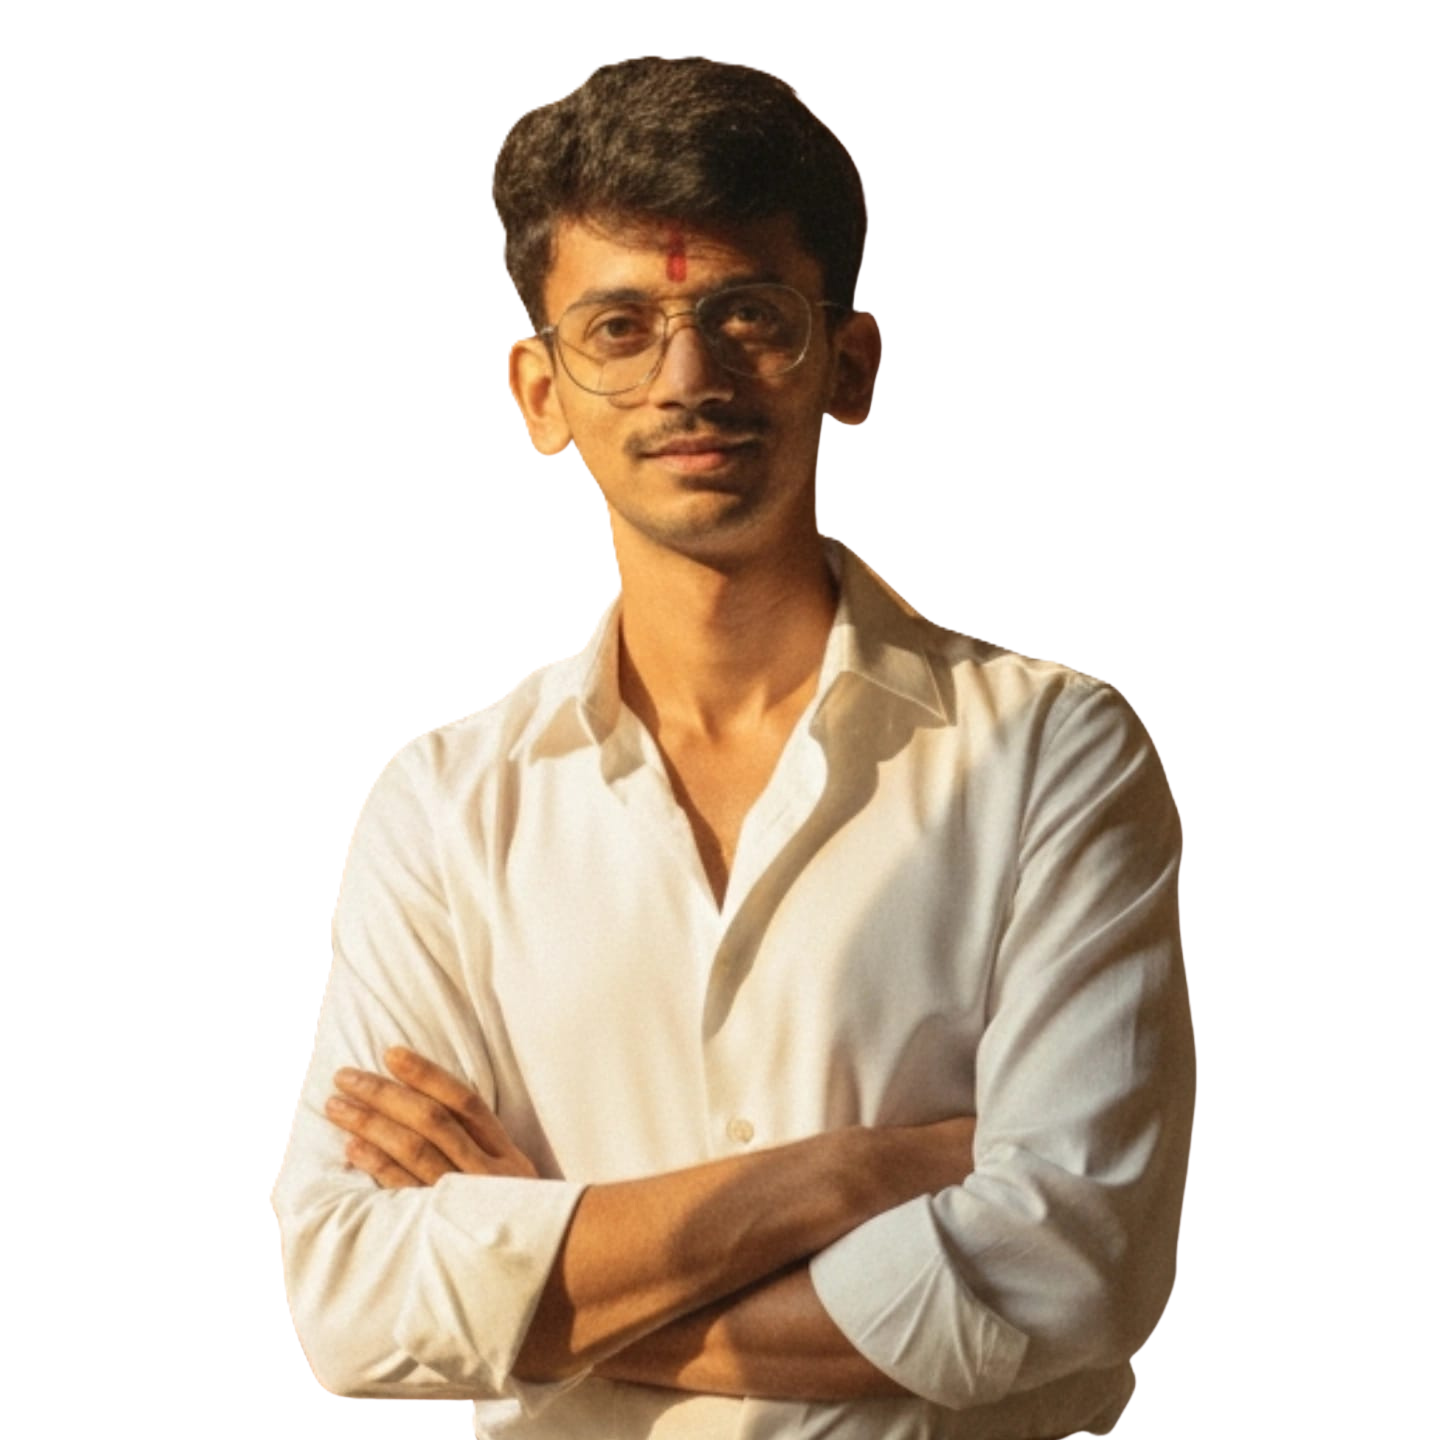
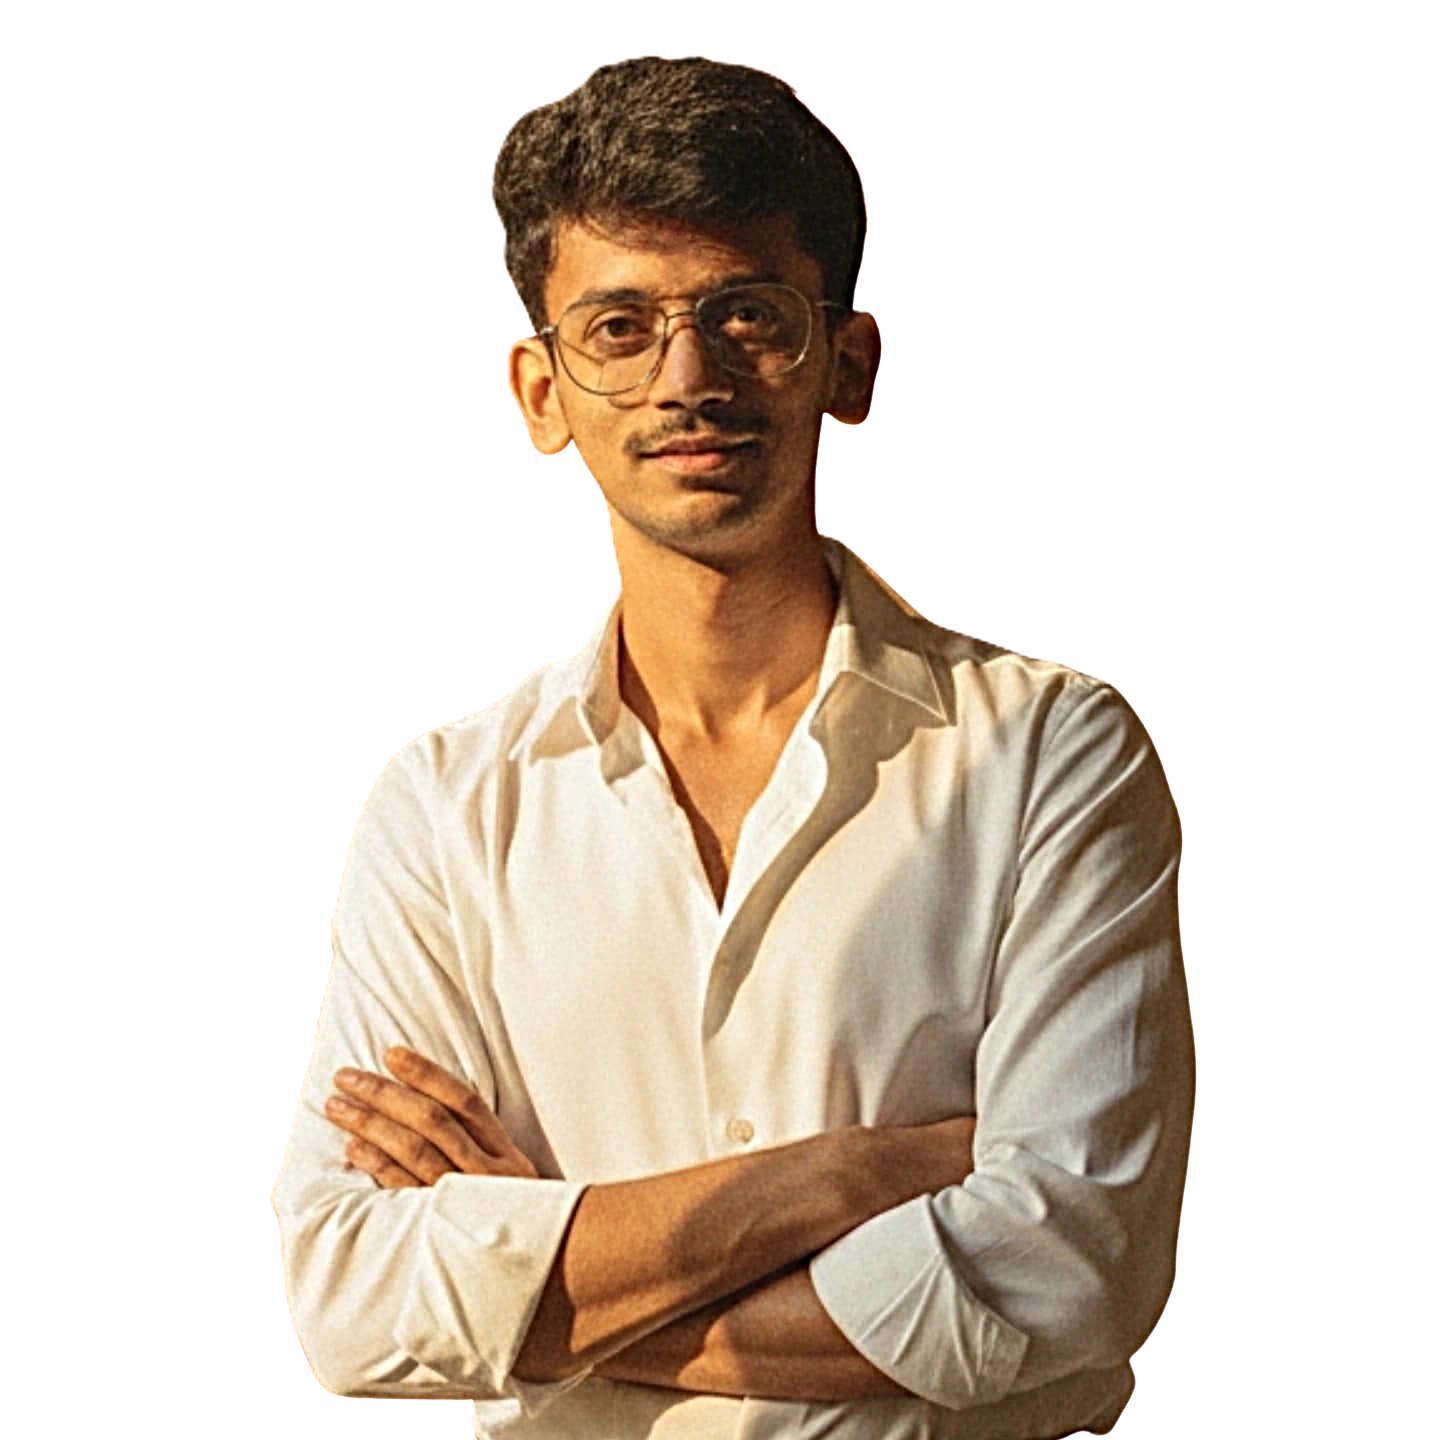
changes in bg

diff --git a/index.html b/index.html
@@ -7,15 +7,15 @@
     <link href="https://fonts.googleapis.com/css2?family=Playfair+Display:wght@400;600;700;900&family=Source+Sans+3:wght@300;400;600;700&family=JetBrains+Mono:wght@400;600&display=swap" rel="stylesheet">
     <style>
         :root {
-            --primary: #0ec40e;
+            --primary: #595f59;
             --accent: #6612b5;
             --accent-light: #F39C12;
             --github: #24292E;
             --github-accent: #0366D6;
             --linkedin: #0A66C2;
             --linkedin-dark: #004182;
-            --text: #34495E;
-            --text-light: #7F8C8D;
+            --text: #0d0d0e;
+            --text-light: #1d1e1f;
             --background: #e4e3e9;
             --card-bg: #f3eded;
             --border: #4490a2;
@@ -522,14 +522,14 @@
             color: rgba(255, 255, 255, 0.92);
             text-decoration: none;
             font-size: 0.85rem;
-            background: rgba(0, 0, 0, 0.14);
+            background: rgba(3, 243, 203, 0.14);
             white-space: nowrap;
             transition: all 0.3s ease;
         }
 
         .project-link:hover {
             border-color: rgba(255, 255, 255, 0.38);
-            background: rgba(0, 0, 0, 0.25);
+            background: rgba(247, 243, 243, 0.767);
             transform: translateY(-2px);
         }
 
@@ -736,14 +736,14 @@
             width: 32px;
             height: 32px;
             background: var(--accent);
-            color: white;
+            color: rgb(248, 244, 244);
             border-radius: 50%;
             display: flex;
             align-items: center;
             justify-content: center;
             font-weight: 700;
             font-size: 0.875rem;
-            box-shadow: 0 4px 10px rgba(231, 76, 60, 0.3);
+            box-shadow: 0 4px 10px rgba(46, 2, 204, 0.3);
         }
         
         .timeline-title {
@@ -830,7 +830,7 @@
         
         /* DevOps Skills */
         .devops-skills {
-            background: linear-gradient(135deg, #f5f7fa 0%, #c3cfe2 100%);
+            background: linear-gradient(135deg, #050505 0%, #faf9fa 100%);
             padding: 5rem 2rem;
         }
         
@@ -843,10 +843,10 @@
         }
         
         .devops-card {
-            background: white;
+            background: rgb(243, 242, 241);
             padding: 2.5rem;
             border-radius: 12px;
-            box-shadow: 0 10px 30px rgba(0, 0, 0, 0.08);
+            box-shadow: 0 10px 30px rgba(12, 11, 11, 0.08);
             text-align: center;
             transition: all 0.3s ease;
             border-top: 4px solid var(--github-accent);
@@ -893,7 +893,7 @@
         }
         
         .tech-tag:hover {
-            background: rgba(3, 102, 214, 0.2);
+            background: rgba(6, 118, 247, 0.2);
             transform: translateY(-2px);
             box-shadow: 0 4px 12px rgba(3, 102, 214, 0.2);
         }
@@ -907,7 +907,7 @@
         }
 
         .devops-panel {
-            background: white;
+            background: rgb(212, 214, 216);
             padding: 2.5rem;
             border-radius: 12px;
             box-shadow: 0 10px 30px rgba(0, 0, 0, 0.08);
@@ -1020,8 +1020,8 @@
         
         /* Contact Section */
         .contact-section {
-            background: linear-gradient(135deg, #2C3E50 0%, #34495E 100%);
-            color: white;
+            background: linear-gradient(135deg, #07a536 0%, #0a0a0a 100%);
+            color: rgb(248, 244, 244);
             padding: 5rem 2rem;
             text-align: center;
         }
@@ -1032,7 +1032,7 @@
         }
         
         .contact-section h2 {
-            color: white;
+            color: rgb(20, 19, 19);
             font-size: 3rem;
             margin-bottom: 1rem;
         }
@@ -1051,7 +1051,7 @@
         }
         
         .contact-item {
-            background: rgba(255, 255, 255, 0.1);
+            background: rgba(52, 240, 68, 0.1);
             padding: 1.5rem;
             border-radius: 12px;
             backdrop-filter: blur(10px);
@@ -1069,7 +1069,7 @@
         }
         
         .contact-item a {
-            color: white;
+            color: rgb(252, 248, 248);
             text-decoration: none;
             transition: color 0.3s ease;
         }
@@ -1080,7 +1080,7 @@
         
         /* Footer */
         footer {
-            background: #1A252F;
+            background: #0a0a0a;
             color: rgba(255, 255, 255, 0.7);
             padding: 3rem 2rem;
             text-align: center;
@@ -1121,7 +1121,7 @@
         }
         
         .footer-section h4 {
-            color: white;
+            color: rgb(250, 249, 249);
             font-size: 1rem;
             margin-bottom: 0.75rem;
             text-transform: uppercase;
@@ -1142,7 +1142,7 @@
         .footer-bottom {
             text-align: center;
             padding-top: 2rem;
-            border-top: 1px solid rgba(255, 255, 255, 0.1);
+            border-top: 1px solid rgba(243, 237, 237, 0.1);
         }
         
         /* Responsive Design */
@@ -1193,6 +1193,21 @@
             .linkedin-wrap { grid-template-columns: 1fr; }
             .linkedin-facts li { grid-template-columns: 1fr; }
             .footer-content { grid-template-columns: 1fr; }
+            /* Improve timeline readability on small screens */
+            .timeline {
+                display: grid;
+                gap: 1.25rem;
+            }
+            .timeline-item {
+                background: rgba(255,255,255,0.03);
+                padding: 1.25rem;
+                border-radius: 12px;
+                border: 1px solid rgba(255,255,255,0.04);
+            }
+            .timeline-bullets li {
+                line-height: 1.6;
+                margin-bottom: 0.6rem;
+            }
         }
     </style>
 </head>
@@ -1282,6 +1297,11 @@
             <h2 class="section-title">Professional Summary</h2>
         </div>
         <div class="summary-card">
+            <p>
+                DevOps Engineer with experience in DevOps architecture, AWS administration, and Infrastructure as Code (IaC), building scalable cloud infrastructure and production-grade CI/CD systems on AWS.
+                Proven track record of designing secure, repeatable AWS environments with Terraform, containerizing and orchestrating microservices with Docker and Kubernetes, and automating deployment pipelines to reduce lead time and manual error.
+                Strong focus on observability, system reliability, and applying DevOps/SRE best practices across the software delivery lifecycle.
+            </p>
             <p>
                 Aspiring AWS DevOps Engineer with hands-on knowledge of cloud infrastructure, automation, and CI/CD practices.
                 Familiar with key services of Amazon Web Services including Amazon EC2, Amazon S3, and AWS Identity and Access Management for building and managing scalable cloud environments.
@@ -1381,89 +1401,33 @@
         <div class="timeline">
             <div class="timeline-item">
                 <div class="timeline-number">1</div>
-                <h3 class="timeline-title">Vected Technology Pvt. Ltd., Indore</h3>
-                <p class="timeline-meta">March 2025 - Present</p>
-                <p class="timeline-location">AWS DevOps Engineer</p>
+                <h3 class="timeline-title">DevOps Engineer  |  Vected Technologies Pvt. Ltd.</h3>
+                <p class="timeline-meta">March 2025 – Present · Indore, India</p>
                 <ul class="timeline-bullets">
-                    <li>Automated build and deployment workflows using Jenkins and GitHub Actions to reduce manual release effort.</li>
-                    <li>Provisioned and updated AWS infrastructure with Terraform (VPC, IAM, EC2/S3) using reusable modules.</li>
-                    <li>Containerized services with Docker and supported Kubernetes deployments with repeatable manifests.</li>
-                    <li>Implemented basic monitoring and alerting with CloudWatch logs/metrics to improve operational visibility.</li>
-                    <li>Hardened access patterns with least-privilege IAM policies and secure secret handling for pipelines.</li>
+                    <li>Administered and provisioned AWS infrastructure (EC2, S3, IAM, VPC) using version-controlled Terraform modules, applying Infrastructure as Code principles to enable repeatable, auditable, and secure deployments.</li>
+                    <li>Designed and optimized CI/CD pipelines using GitHub Actions as part of the broader DevOps architecture, reducing deployment lead time by 30% and enabling faster, safer release cycles.</li>
+                    <li>Containerized microservices with Docker and orchestrated deployments on Kubernetes, ensuring 100% environment consistency across development and staging environments.</li>
+                    <li>Enforced infrastructure security through IAM least-privilege policies, VPC network segmentation, and firewall configuration to protect cloud environments against security threats.</li>
+                    <li>Automated infrastructure provisioning and deployment tasks via Bash and Python scripting, eliminating manual steps and reducing human error across the delivery pipeline.</li>
+                    <li>Configured AWS CloudWatch dashboards, alarms, and log-based alerting for proactive system monitoring, performance troubleshooting, and incident response.</li>
+                </ul>
+            </div>
+
+            <div class="timeline-item">
+                <div class="timeline-number">2</div>
+                <h3 class="timeline-title">DevOps Intern  |  Vected Technologies Pvt. Ltd.</h3>
+                <p class="timeline-meta">November 2024 – February 2025 · Indore, India</p>
+                <ul class="timeline-bullets">
+                    <li>Supported automation of deployment pipelines and management of cloud infrastructure, gaining hands-on experience with CI/CD tooling, Docker, Kubernetes, and AWS administration.</li>
+                    <li>Contributed to Infrastructure as Code initiatives using Terraform and assisted in monitoring and system reliability efforts.</li>
                 </ul>
             </div>
         </div>
     </section>
 
     <section class="devops-skills" id="devops">
-        <div class="section-header">
-            <h2 class="section-title">DevOps & Cloud Expertise</h2>
-            <p class="section-subtitle">Modern tools and technologies for cloud infrastructure automation</p>
-        </div>
         <div class="devops-grid">
             <div class="devops-card">
-                <div class="devops-icon">☁</div>
-                <h3>Cloud Platforms</h3>
-                <p>Expert in AWS services and cloud architecture design for scalable solutions.</p>
-                <div class="tech-tags">
-                    <span class="tech-tag">AWS</span>
-                    <span class="tech-tag">EC2</span>
-                    <span class="tech-tag">S3</span>
-                    <span class="tech-tag">Lambda</span>
-                    <span class="tech-tag">RDS</span>
-                    <span class="tech-tag">VPC</span>
-                    <span class="tech-tag">SNS & SQS</span>
-                    <span class="tech-tag">IAM</span>
-                </div>
-            </div>
-            <div class="devops-card">
-                <div class="devops-icon">🔄</div>
-                <h3>CI/CD Pipelines</h3>
-                <p>Automated deployment workflows for continuous integration and delivery.</p>
-                <div class="tech-tags">
-                    <span class="tech-tag">Jenkins</span>
-                    <span class="tech-tag">GitHub Actions</span>
-                    <span class="tech-tag">GitLab CI</span>
-                </div>
-            </div>
-            <div class="devops-card">
-                <div class="devops-icon">🧱</div>
-                <h3>Infrastructure as Code</h3>
-                <p>Provisioning and managing infrastructure through code for consistency.</p>
-                <div class="tech-tags">
-                    <span class="tech-tag">Terraform</span>
-                    <span class="tech-tag">CloudFormation</span>
-                    <span class="tech-tag">Ansible</span>
-                </div>
-            </div>
-            <div class="devops-card">
-                <div class="devops-icon">🐳</div>
-                <h3>Containerization</h3>
-                <p>Building and managing containerized applications for portability.</p>
-                <div class="tech-tags">
-                    <span class="tech-tag">Docker</span>
-                    <span class="tech-tag">Docker Compose</span>
-                    <span class="tech-tag">Registry</span>
-                </div>
-            </div>
-            <div class="devops-card">
-                <div class="devops-icon">☸</div>
-                <h3>Orchestration</h3>
-                <p>Container orchestration and management at scale with Kubernetes.</p>
-                <div class="tech-tags">
-                    <span class="tech-tag">Kubernetes</span>
-                </div>
-            </div>
-            <div class="devops-card">
-                <div class="devops-icon">📊</div>
-                <h3>Monitoring & Logging</h3>
-                <p>Comprehensive monitoring and logging solutions for system observability.</p>
-                <div class="tech-tags">
-                    <span class="tech-tag">Prometheus</span>
-                    <span class="tech-tag">Grafana</span>
-                </div>
-            </div>
-        </div>
 
         <div class="devops-extras" aria-label="DevOps portfolio highlights">
             <div class="devops-panel">
@@ -1555,23 +1519,24 @@
     <section class="section" id="education">
         <div class="section-header">
             <h2 class="section-title">Educational Background</h2>
-            <p class="section-subtitle">Academic foundation in mechanical engineering</p>
         </div>
-        <div class="education-grid">
-            <div class="education-card">
-                <div class="education-icon">🎓</div>
-                <div class="education-content">
-                    <h3>Medi-Caps University</h3>
-                    <p class="education-degree">Bachelor of Technology - BTech, Mechanical Engineering</p>
-                    <p class="education-year">2020 - 2024</p>
+        <div style="max-width: 780px; margin: 0 auto;">
+            <div class="education-grid">
+                <div class="education-card">
+                    <div class="education-icon">🎓</div>
+                    <div class="education-content">
+                        <h3>Medi-Caps University</h3>
+                        <p class="education-degree">Bachelor of Technology - BTech, Mechanical Engineering</p>
+                        <p class="education-year">2020 - 2024</p>
+                    </div>
                 </div>
-            </div>
-            <div class="education-card">
-                <div class="education-icon">📚</div>
-                <div class="education-content">
-                    <h3>Chameli Devi Public School</h3>
-                    <p class="education-degree">PCM (Physics, Chemistry, Mathematics)</p>
-                    <p class="education-year">June 2019 - April 2020</p>
+                <div class="education-card">
+                    <div class="education-icon">📚</div>
+                    <div class="education-content">
+                        <h3>Chameli Devi Public School</h3>
+                        <p class="education-degree">PCM (Physics, Chemistry, Mathematics)</p>
+                        <p class="education-year">June 2019 - April 2020</p>
+                    </div>
                 </div>
             </div>
         </div>
